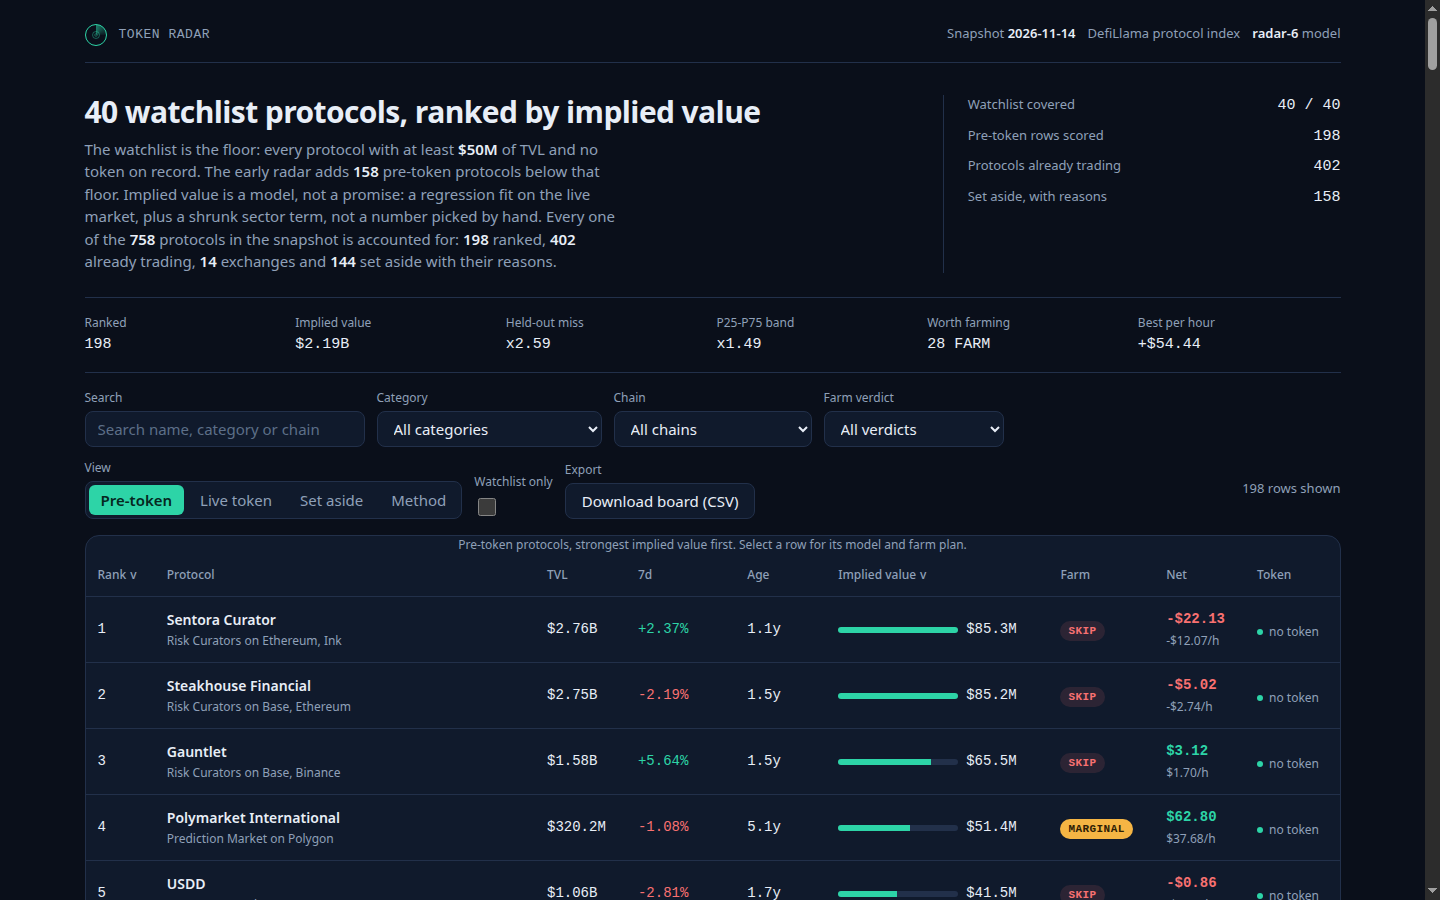
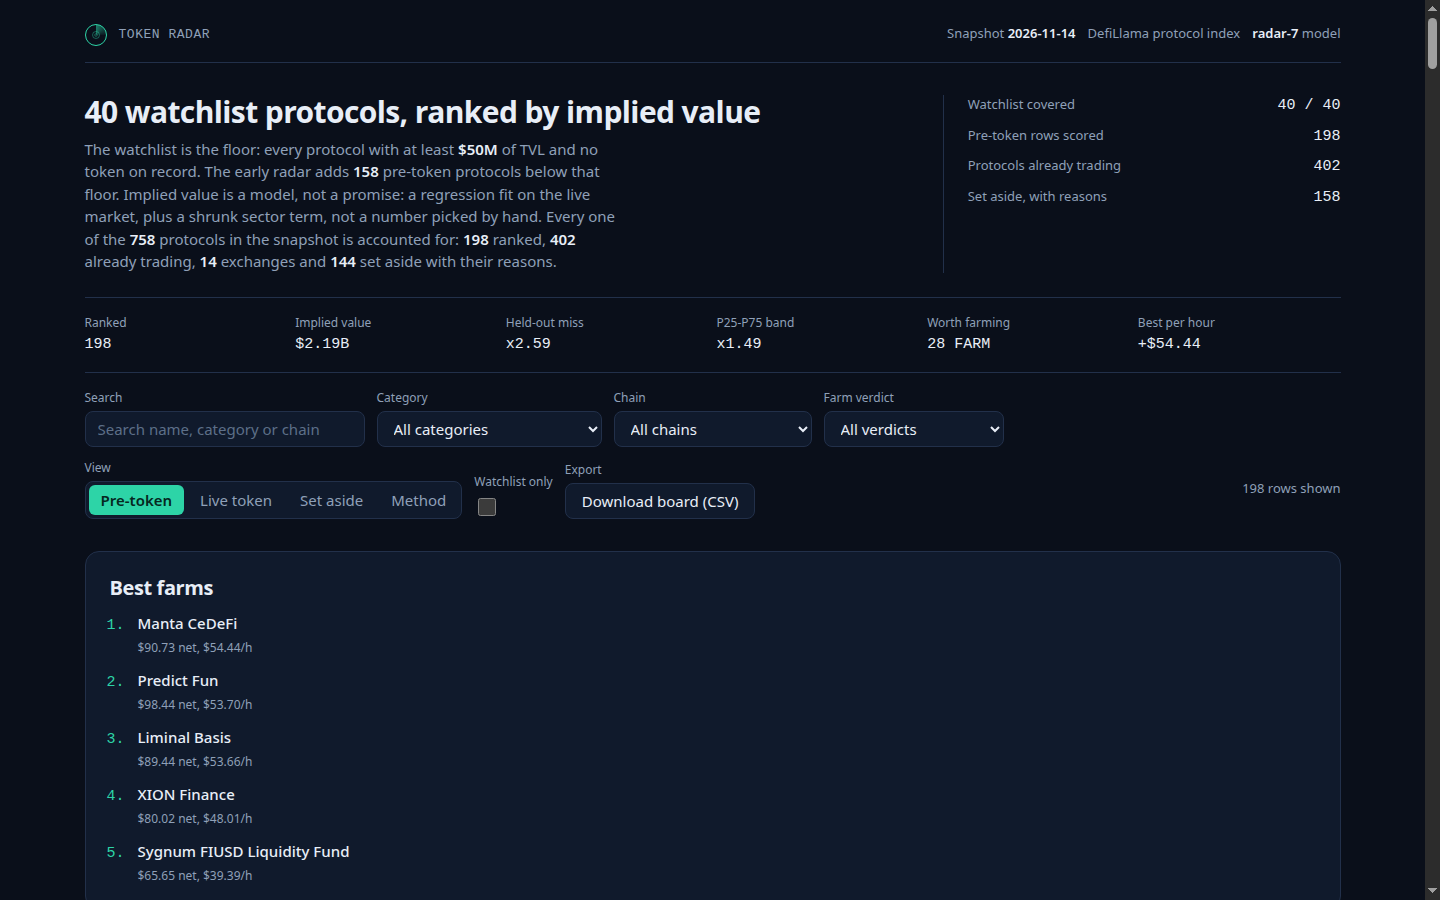
radar-7: Best farms shortlist + chain labels on farm gas costs
- Best farms: top 5 FARM rows by net per hour, above the board
  (Manta CeDeFi, Predict Fun, Liminal Basis, XION Finance, Sygnum)
- Farm plan gas costs now name the chain (Ethereum/Solana/other)
- Method text tightened to keep the dossier under 65,536 bytes
- Model unchanged (sector baseline, proven 12-0 in dev)

diff --git a/dashboard/app.js b/dashboard/app.js
@@ -337,6 +337,13 @@
     );
   }
 
+  /** The five FARM rows that pay best per hour of active work. */
+  function bestFarms() {
+    var f = DATA.rows.filter(function (r) { return r.verdict === 'FARM'; }).sort(function (a, b) { return b.per_hour_usd - a.per_hour_usd; }).slice(0, 5);
+    return el('div', { class: 'panel model' }, el('h2', { text: 'Best farms' }),
+      el('ol', { class: 'steps' }, f.map(function (r) { return el('li', { onclick: function () { openDetail(r.slug); }, style: 'cursor:pointer' }, el('b', { text: r.name }), el('span', { class: 'sub', text: ' ' + fmtDollars(r.net_usd) + ' net, ' + fmtDollars(r.per_hour_usd) + '/h' })); })));
+  }
+
   function controls() {
     var categories = Array.from(new Set(DATA.rows.map(function (r) { return r.category || 'Other'; }))).sort();
     var chainCounts = {};
@@ -598,11 +605,11 @@
         ),
         el('h3', { text: 'Calibration' }),
         el('div', { html: cal.calibration_svg }),
-        el('p', { class: 'sub', text: 'Each dot is one live protocol predicted from the other 118: green is within 2x of its true market cap, amber is further out. The diagonal is a perfect prediction, the dashed lines the 2x band.' }),
+        el('p', { class: 'sub', text: 'Each dot is one live protocol predicted from the other 118: green within 2x of its true market cap, amber further out. Diagonal: a perfect prediction; dashed lines: the 2x band.' }),
         el('h3', { text: 'What the farm assumes' }),
-        el('p', { class: 'sub', text: 'Deposit: the larger of TVL / 10,000 and three times the gas divided by the slice per dollar, between $500 and $5,000. Slice: 10% of the implied value goes to depositors, split pro-rata by TVL. Gas: $3.00 a transaction on Ethereum, $0.05 on Solana, $0.15 elsewhere. T-bill: 4% a year on the deposit. Verdict: FARM when the farm pays at 10% launch odds or less, MARGINAL at 25% or less, else SKIP; a farm is capped at MARGINAL when the 7-day TVL fell more than 30%. The deposit itself is not a cost: it comes back when the position unwinds.' }),
+        el('p', { class: 'sub', text: 'Deposit: the larger of TVL / 10,000 and three times the gas divided by the slice per dollar, between $500 and $5,000. Slice: 10% of the implied value, split pro-rata by TVL. Gas: $3.00 on Ethereum, $0.05 on Solana, $0.15 elsewhere. T-bill: 4% a year. Verdict: FARM at 10% launch odds or less, MARGINAL at 25% or less, else SKIP; capped at MARGINAL when 7-day TVL fell over 30%.' }),
         el('h3', { text: 'Weak parts, stated plainly' }),
-        el('p', { class: 'sub', text: 'Growth and age tilts were tested and dropped: each loses on leave-one-out. Most farms are SKIP (' + counts.SKIP + ' of ' + DATA.board_size + '): on the big protocols the slice is small next to the T-bill the deposit forgoes. The P25-P75 band is wide because the live market itself is noisy. A slice assumes depositors are paid pro-rata by TVL; activity-based rewards would pay an active farmer more. Implied value is an estimate, not a price.' }),
+        el('p', { class: 'sub', text: 'Growth and age tilts were tested and dropped: each loses on leave-one-out. Most farms are SKIP (' + counts.SKIP + ' of ' + DATA.board_size + '): on the big protocols the slice is small next to the T-bill the deposit forgoes. The P25-P75 band is wide because the live market is noisy. Implied value is an estimate, not a price.' }),
         el('h3', { text: 'The ledger: every protocol in the snapshot' }),
         el('p', { class: 'sub', text: String(ledger.total) + ' protocols: ' + ledger.ranked + ' ranked, ' + ledger.live + ' already trading, ' + ledger.cex + ' exchanges, ' + ledger.excluded + ' set aside with their reasons.' })
       )
@@ -618,7 +625,7 @@
       el('div', { class: 'formula' },
         'implied = round( exp( ', el('b', { text: String(cal.intercept) }), ' + ', el('b', { text: String(cal.slope) }), ' x ln(tvl_usd) + sector offset ) )'
       ),
-      el('p', { class: 'sub', text: 'The market does not pay a flat multiple for a dollar of TVL: the ratio falls as protocols grow, so a single median multiple overstates the giants and understates the small. The regression reads that size effect off the live market. At $100M of TVL the fitted ratio is ' + cal.ratio_at_100m + '; at $1B it is ' + cal.ratio_at_1b + '. The sector term is each category\u2019s median residual from the curve, shrunk by a pseudo-count of 8, so a category with one traded protocol barely moves its own rows. Growth and age tilts were tested and left out: each loses on leave-one-out, so the model keeps only TVL and the sector term.' }),
+      el('p', { class: 'sub', text: 'The market does not pay a flat multiple for a dollar of TVL: the ratio falls as protocols grow, so a single median multiple overstates the giants and understates the small. At $100M of TVL the fitted ratio is ' + cal.ratio_at_100m + '; at $1B it is ' + cal.ratio_at_1b + '. The sector term is each category\u2019s median residual from the curve, shrunk by a pseudo-count of 8, so a thin category barely moves its own rows. Growth and age tilts were tested and left out: each loses on leave-one-out, so the model keeps only TVL and the sector term.' }),
       el('table', { class: 'calib' },
         el('thead', null, el('tr', null, el('th', { text: 'Fit' }), el('th', { text: 'Value' }))),
         el('tbody', null,
@@ -774,7 +781,7 @@
     shell.appendChild(lede());
     shell.appendChild(kpiStrip());
     shell.appendChild(controls());
-    if (state.tab === 'pre-token') shell.appendChild(boardTable());
+    if (state.tab === 'pre-token') { shell.appendChild(bestFarms()); shell.appendChild(boardTable()); }
     else if (state.tab === 'live') shell.appendChild(liveTable());
     else if (state.tab === 'setaside') shell.appendChild(setAsideTable());
     else shell.appendChild(methodView());

diff --git a/lib/model.ts b/lib/model.ts
@@ -68,7 +68,7 @@ export const MODEL: ModelConstants = {
 };
 
 /** The version label the dashboard names and the rules quote. */
-export const MODEL_VERSION = 'radar-6';
+export const MODEL_VERSION = 'radar-7';
 
 /** How much of a token's implied value the farm assumes goes to depositors, and the T-bill
  *  rate the deposit forgoes while it sits in the position. */
@@ -813,17 +813,17 @@ export function farmSteps(p: SnapshotProtocol, age: number | null, implied: numb
   return [
     {
       text: `Use a fresh wallet that holds only the funds you plan to farm, and keep its seed phrase offline.`,
-      cost: `about $${first.toFixed(2)} of gas for the first transaction`,
+      cost: `about $${first.toFixed(2)} of gas on ${chain} for the first transaction`,
       time: '5 minutes',
     },
     {
       text: `${action} ${p.name} holds ${fmtUsd(p.tvl_usd)} of TVL, so the $${capital} is a small slice of it and can exit in one transaction.`,
-      cost: `$${capital} of capital and about $${first.toFixed(2)} of gas`,
+      cost: `$${capital} of capital and about $${first.toFixed(2)} of gas on ${chain}`,
       time: '15 minutes to set up',
     },
     {
       text: growthStep(p),
-      cost: `about $${first.toFixed(2)} of gas a week`,
+      cost: `about $${first.toFixed(2)} of gas on ${chain} a week`,
       time: '10 minutes a week',
     },
     {
